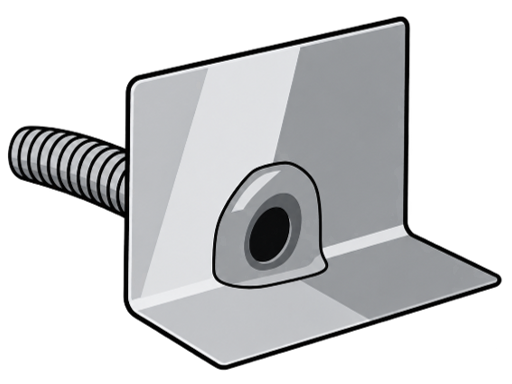
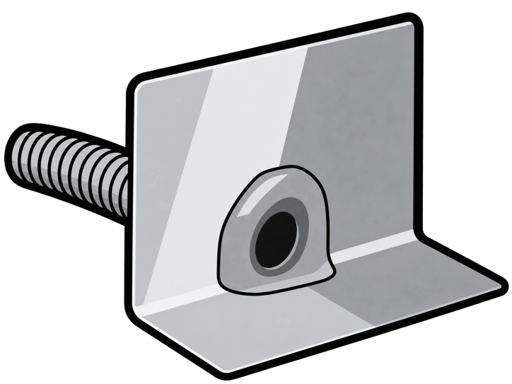
材料の絵を差し替え：改修用ドレン（よこ）
Claude-Session: https://claude.ai/code/session_01RqS8ryZ4NX9tKMiG8XzpXY

Changed region(s): [[0.0, 0.0312, 1.0, 1.0], [0.3125, 0.3438, 0.375, 0.625], [0.6562, 0.7812, 0.6875, 0.8125]]

diff --git a/index.html b/index.html
@@ -395,7 +395,7 @@ nav, nav#nav{overflow:visible; padding-top:2px;}
 
 <!-- 版の表示：スマホに届いている中身がどれかを、お互いに確認するための小さな印。
      不要になったらこの1行と #nnver の指定を消してください。 -->
-<div id="nnver">v2026-10-03 r</div>
+<div id="nnver">v2026-10-03 s</div>
 <script>
 /* ============ 実機の計測結果を表示（原因調査用・2026-07-28） ============
    数字の意味（単位はミリ秒）
@@ -746,7 +746,7 @@ nav, nav#nav{justify-content:center !important; padding-left:6px !important; pad
    古いものが出続けることがある。そこで ver.txt（数バイト）だけを
    毎回見に行き、公開版と違っていたら保存分を捨てて1回だけ読み直す。
    ★公開のたびに ver.txt と、下の NN_VER を同じ文字に更新すること。 */
-const NN_VER='2026-10-03r';
+const NN_VER='2026-10-03s';
 /* ============ 表示にかかった時間の記録（原因調査用・2026-07-28） ============
    スマホの実機でどこに時間がかかっているかを数字で出す。
    ・net  ＝ページを要求してから最初の返事が来るまで（通信の待ち）
@@ -1963,7 +1963,7 @@ html:not([data-nnphone="1"]) nav#nav .ni.hasimg.on:hover{transform:scale(1.10) !
 <script src="./kou_hq.js?v=2026-09-26q"></script>
 <script src="./nn_select.js?v=2026-09-25n"></script>
 <script src="./nn_scrolllock.js?v=2026-09-25c"></script>
-<script src="./nn_matill.js?v=2026-10-03r"></script>
+<script src="./nn_matill.js?v=2026-10-03s"></script>
 <script src="./nn_master.js?v=2026-09-29i"></script>
 <script src="./nn_photos.js?v=2026-09-29h"></script>
 <script src="./nn_seikyu.js?v=2026-09-29g"></script>

diff --git a/kirokucho_demo.html b/kirokucho_demo.html
@@ -4842,7 +4842,7 @@ nav, nav#nav{justify-content:center !important; padding-left:6px !important; pad
    古いものが出続けることがある。そこで ver.txt（数バイト）だけを
    毎回見に行き、公開版と違っていたら保存分を捨てて1回だけ読み直す。
    ★公開のたびに ver.txt と、下の NN_VER を同じ文字に更新すること。 */
-const NN_VER='2026-10-03r';
+const NN_VER='2026-10-03s';
 /* ============ 表示にかかった時間の記録（原因調査用・2026-07-28） ============
    スマホの実機でどこに時間がかかっているかを数字で出す。
    ・net  ＝ページを要求してから最初の返事が来るまで（通信の待ち）
@@ -9645,7 +9645,7 @@ html body #dashboard .dash-settings-btn{display:inline-flex;align-items:center;g
 <script src="./kou_hq.js?v=2026-09-26q"></script>
 <script src="./nn_select.js?v=2026-09-25n"></script>
 <script src="./nn_scrolllock.js?v=2026-09-25c"></script>
-<script src="./nn_matill.js?v=2026-10-03r"></script>
+<script src="./nn_matill.js?v=2026-10-03s"></script>
 <script src="./nn_master.js?v=2026-09-29i"></script>
 <!-- ★2026-09-25a スマホ：新規物件登録を見直し（本人の指摘4点）
      ①日付欄（着工日など）が隣の列へはみ出して重なる → iPhoneの日付欄は固有の幅を持つので、見た目の既定をやめて幅100%に

diff --git a/zairyo_toroku.html b/zairyo_toroku.html
@@ -503,7 +503,7 @@ nav::-webkit-scrollbar{display:none;}
 }
 </style>
 <link rel="prefetch" href="./index.html"><link rel="prefetch" href="./kirokucho_demo.html"><link rel="prefetch" href="./genba_map_v36.html"><link rel="prefetch" href="./hacchu.html"><link rel="prefetch" href="./camera.html"><link rel="prefetch" href="./kokkosho.html">
-<script src="./nn_matill.js?v=2026-10-03r"></script>   <!-- ★§551 一覧の最初の描画より先に読む（あとだと一覧に絵が出ない） -->
+<script src="./nn_matill.js?v=2026-10-03s"></script>   <!-- ★§551 一覧の最初の描画より先に読む（あとだと一覧に絵が出ない） -->
 </head>
 <body>
 
@@ -1590,7 +1590,7 @@ nav, nav#nav{justify-content:center !important; padding-left:6px !important; pad
    古いものが出続けることがある。そこで ver.txt（数バイト）だけを
    毎回見に行き、公開版と違っていたら保存分を捨てて1回だけ読み直す。
    ★公開のたびに ver.txt と、下の NN_VER を同じ文字に更新すること。 */
-const NN_VER='2026-10-03r';
+const NN_VER='2026-10-03s';
 /* ============ 表示にかかった時間の記録（原因調査用・2026-07-28） ============
    スマホの実機でどこに時間がかかっているかを数字で出す。
    ・net  ＝ページを要求してから最初の返事が来るまで（通信の待ち）

diff --git a/camera.html b/camera.html
@@ -1271,7 +1271,7 @@ nav, nav#nav{justify-content:center !important; padding-left:6px !important; pad
    古いものが出続けることがある。そこで ver.txt（数バイト）だけを
    毎回見に行き、公開版と違っていたら保存分を捨てて1回だけ読み直す。
    ★公開のたびに ver.txt と、下の NN_VER を同じ文字に更新すること。 */
-const NN_VER='2026-10-03r';
+const NN_VER='2026-10-03s';
 /* ============ 表示にかかった時間の記録（原因調査用・2026-07-28） ============
    スマホの実機でどこに時間がかかっているかを数字で出す。
    ・net  ＝ページを要求してから最初の返事が来るまで（通信の待ち）

diff --git a/genba_map_v36.html b/genba_map_v36.html
@@ -5019,7 +5019,7 @@ nav, nav#nav{justify-content:center !important; padding-left:6px !important; pad
    古いものが出続けることがある。そこで ver.txt（数バイト）だけを
    毎回見に行き、公開版と違っていたら保存分を捨てて1回だけ読み直す。
    ★公開のたびに ver.txt と、下の NN_VER を同じ文字に更新すること。 */
-const NN_VER='2026-10-03r';
+const NN_VER='2026-10-03s';
 /* ============ 表示にかかった時間の記録（原因調査用・2026-07-28） ============
    スマホの実機でどこに時間がかかっているかを数字で出す。
    ・net  ＝ページを要求してから最初の返事が来るまで（通信の待ち）

diff --git a/hacchu.html b/hacchu.html
@@ -1103,7 +1103,7 @@ nav, nav#nav{justify-content:center !important; padding-left:6px !important; pad
    古いものが出続けることがある。そこで ver.txt（数バイト）だけを
    毎回見に行き、公開版と違っていたら保存分を捨てて1回だけ読み直す。
    ★公開のたびに ver.txt と、下の NN_VER を同じ文字に更新すること。 */
-const NN_VER='2026-10-03r';
+const NN_VER='2026-10-03s';
 /* ============ 表示にかかった時間の記録（原因調査用・2026-07-28） ============
    スマホの実機でどこに時間がかかっているかを数字で出す。
    ・net  ＝ページを要求してから最初の返事が来るまで（通信の待ち）

diff --git a/kokkosho.html b/kokkosho.html
@@ -2451,7 +2451,7 @@ nav, nav#nav{justify-content:center !important; padding-left:6px !important; pad
    古いものが出続けることがある。そこで ver.txt（数バイト）だけを
    毎回見に行き、公開版と違っていたら保存分を捨てて1回だけ読み直す。
    ★公開のたびに ver.txt と、下の NN_VER を同じ文字に更新すること。 */
-const NN_VER='2026-10-03r';
+const NN_VER='2026-10-03s';
 /* ============ 表示にかかった時間の記録（原因調査用・2026-07-28） ============
    スマホの実機でどこに時間がかかっているかを数字で出す。
    ・net  ＝ページを要求してから最初の返事が来るまで（通信の待ち）

diff --git a/library.html b/library.html
@@ -1170,7 +1170,7 @@ nav, nav#nav{justify-content:center !important; padding-left:6px !important; pad
    古いものが出続けることがある。そこで ver.txt（数バイト）だけを
    毎回見に行き、公開版と違っていたら保存分を捨てて1回だけ読み直す。
    ★公開のたびに ver.txt と、下の NN_VER を同じ文字に更新すること。 */
-const NN_VER='2026-10-03r';
+const NN_VER='2026-10-03s';
 /* ============ 表示にかかった時間の記録（原因調査用・2026-07-28） ============
    スマホの実機でどこに時間がかかっているかを数字で出す。
    ・net  ＝ページを要求してから最初の返事が来るまで（通信の待ち）

diff --git a/shiyo_toroku.html b/shiyo_toroku.html
@@ -1668,7 +1668,7 @@ nav, nav#nav{justify-content:center !important; padding-left:6px !important; pad
    古いものが出続けることがある。そこで ver.txt（数バイト）だけを
    毎回見に行き、公開版と違っていたら保存分を捨てて1回だけ読み直す。
    ★公開のたびに ver.txt と、下の NN_VER を同じ文字に更新すること。 */
-const NN_VER='2026-10-03r';
+const NN_VER='2026-10-03s';
 /* ============ 表示にかかった時間の記録（原因調査用・2026-07-28） ============
    スマホの実機でどこに時間がかかっているかを数字で出す。
    ・net  ＝ページを要求してから最初の返事が来るまで（通信の待ち）

diff --git a/yougo.html b/yougo.html
@@ -1406,7 +1406,7 @@ nav, nav#nav{justify-content:center !important; padding-left:6px !important; pad
    古いものが出続けることがある。そこで ver.txt（数バイト）だけを
    毎回見に行き、公開版と違っていたら保存分を捨てて1回だけ読み直す。
    ★公開のたびに ver.txt と、下の NN_VER を同じ文字に更新すること。 */
-const NN_VER='2026-10-03r';
+const NN_VER='2026-10-03s';
 /* ============ 表示にかかった時間の記録（原因調査用・2026-07-28） ============
    スマホの実機でどこに時間がかかっているかを数字で出す。
    ・net  ＝ページを要求してから最初の返事が来るまで（通信の待ち）

diff --git a/zumen_sekisan.html b/zumen_sekisan.html
@@ -6308,7 +6308,7 @@ nav, nav#nav{justify-content:center !important; padding-left:6px !important; pad
    古いものが出続けることがある。そこで ver.txt（数バイト）だけを
    毎回見に行き、公開版と違っていたら保存分を捨てて1回だけ読み直す。
    ★公開のたびに ver.txt と、下の NN_VER を同じ文字に更新すること。 */
-const NN_VER='2026-10-03r';
+const NN_VER='2026-10-03s';
 /* ============ 表示にかかった時間の記録（原因調査用・2026-07-28） ============
    スマホの実機でどこに時間がかかっているかを数字で出す。
    ・net  ＝ページを要求してから最初の返事が来るまで（通信の待ち）

diff --git a/nn_matill.js b/nn_matill.js
@@ -10,7 +10,7 @@
    ============================================================ */
 (function(){ 'use strict';
 if(window.nnMatIll) return;
-var ILL_VER='2026-10-03r';   /* ★絵を同じ名前で差し替えたら上げる（上げないと古い絵が出続ける） */
+var ILL_VER='2026-10-03s';   /* ★絵を同じ名前で差し替えたら上げる（上げないと古い絵が出続ける） */
 var KUBUN=[
  ['asphalt_compound','アスファルトコンパウンド','#6b4a2a'],
  ['primer','プライマー','#8a5a12'],
